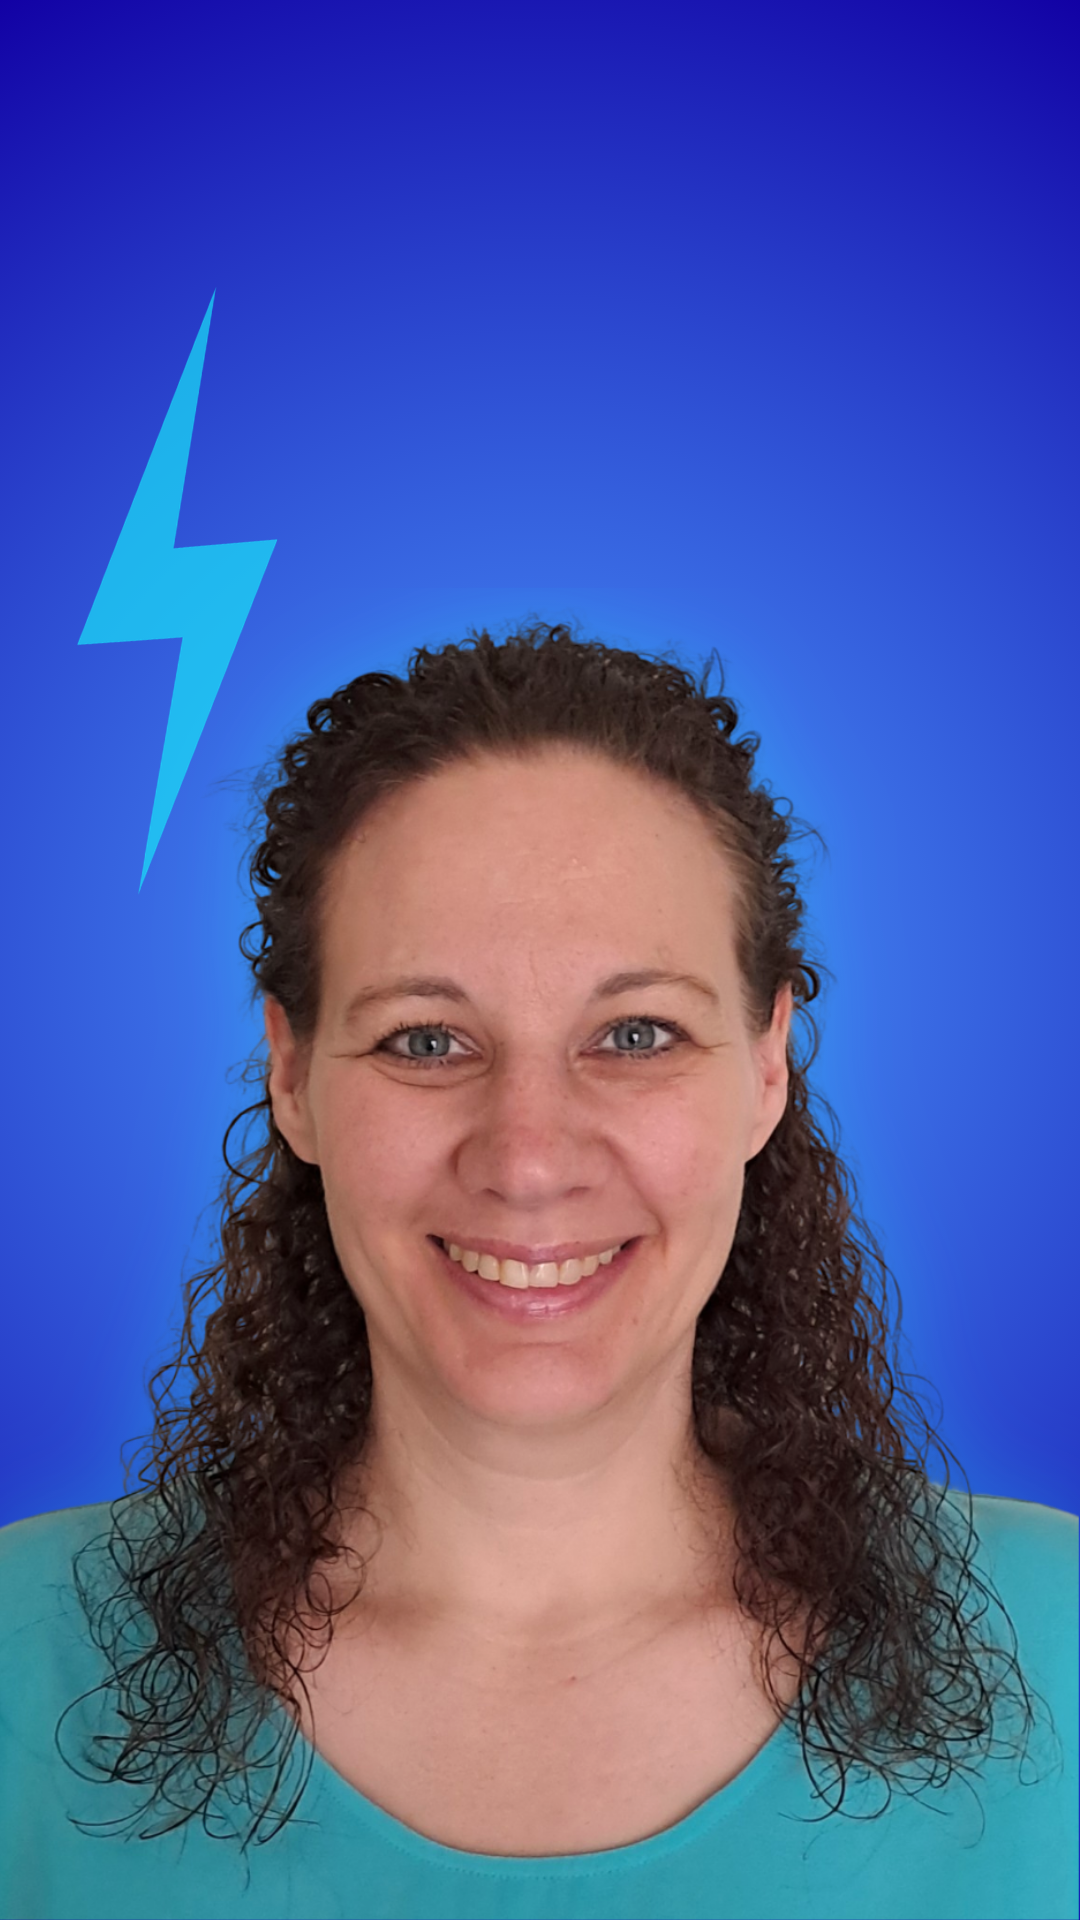
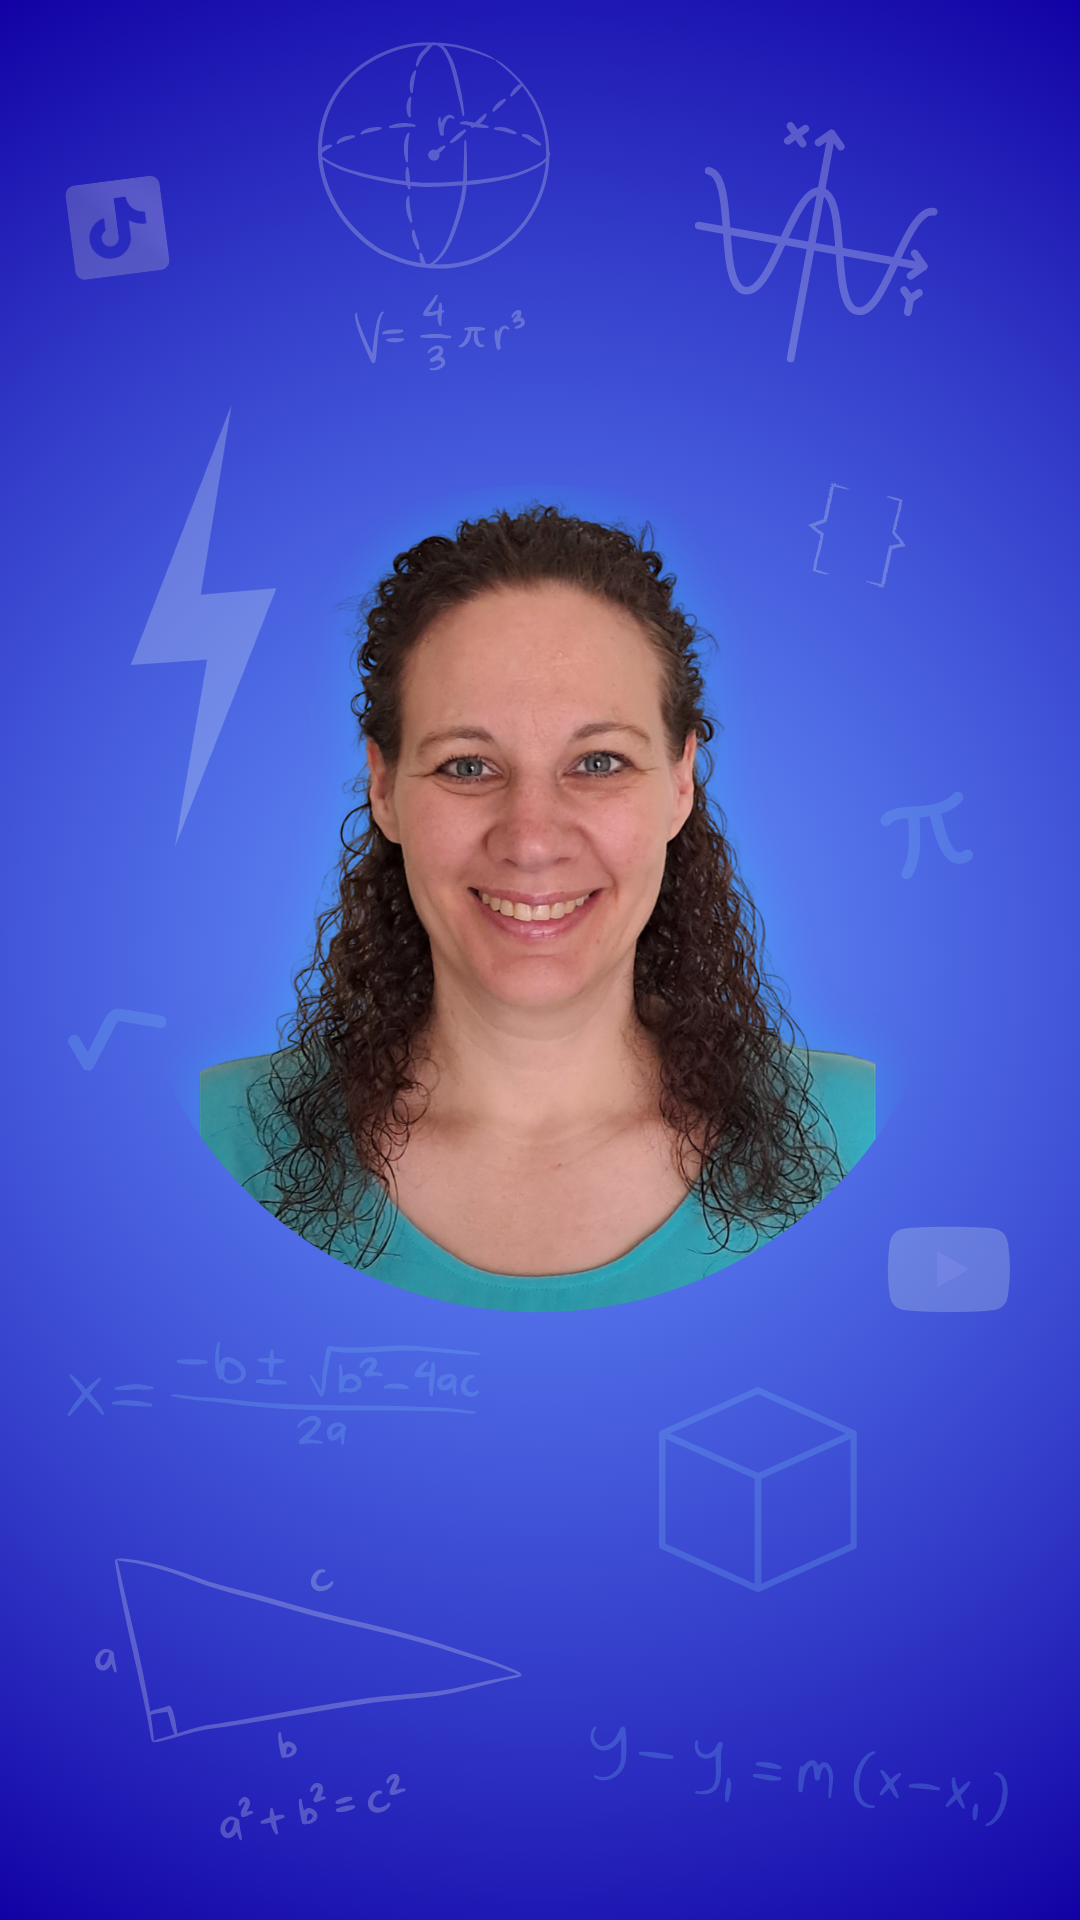
Refine homepage design and visual hierarchy

diff --git a/components/Worlds.tsx b/components/Worlds.tsx
@@ -28,17 +28,17 @@ export default function Worlds() {
 }, [currentImage]);
 
   return (
-    <section className="mx-auto mt-4 mb-16 max-w-7xl px-8">
+    <section className="mx-auto mt-7 mb-16 max-w-7xl px-8">
       <div className="grid grid-cols-3 gap-12">
 
         {/* ===== BEAT THE LIGHTNING ===== */}
 
         <article
           className="
-            w-[390px]
+            w-[350px]
             rounded-[36px]
             bg-[radial-gradient(circle_at_center,#19E0F8_15%,#1376FD_100%)]
-            p-7
+            p-6
             shadow-[0_18px_40px_rgba(0,0,0,0.18)]
             transition-all
             duration-300
@@ -48,7 +48,7 @@ export default function Worlds() {
 
           {/* Titel */}
 
-          <h2 className="text-center text-[2.5rem] font-semibold leading-tight text-white">
+          <h2 className="text-center text-[1.7rem] leading-tight text-slate-50">
             BEAT THE
             <br />
             LIGHTNING
@@ -56,7 +56,7 @@ export default function Worlds() {
 
           {/* Video */}
 
-          <div className="mt-6 px-4">
+          <div className="mt-4 px-6">
             <div className="overflow-hidden rounded-[28px] shadow-xl">
               <video
                 autoPlay
@@ -73,23 +73,9 @@ export default function Worlds() {
             </div>
           </div>
 
-          {/* Tekst */}
-
-          <p className="mt-6 text-center text-lg font-semibold text-white">
-            Can you beat the lightning?⚡
-          </p>
-
-          <p className="mt-2 text-center text-[16px] leading-7 text-white/90">
-            Solve each challenge
-            <br />
-            before the lightning strikes
-            <br />
-            and sharpen your math skills.
-          </p>
-
           {/* GO */}
 
-          <div className="mt-6 flex flex-col items-center">
+          <div className="mt-2 flex flex-col items-center">
 
             <button
               className="
@@ -103,8 +89,8 @@ export default function Worlds() {
                 src="/branding/compass-enter.svg"
                 alt="Enter BEAT THE LIGHTNING"
                 className="
-                  h-20
-                  w-20
+                  h-14
+                  w-14
                   transition-all
                   duration-300
                   group-hover:drop-shadow-[0_0_22px_rgba(24,224,248,0.9)]
@@ -112,11 +98,24 @@ export default function Worlds() {
               />
             </button>
 
-            <span className="mt-2 text-lg font-bold tracking-wide text-[#1201A4]">
+            <span className="mt-1 text-base font-bold tracking-wide text-[#1201A4]">
               GO
             </span>
 
           </div>
+
+          {/* Tekst */}
+
+          <p className="mt-3 text-center text-lg font-semibold text-white">
+            Can you beat the lightning?⚡
+          </p>
+
+          <p className="mt-2 text-center text-[16px] leading-6 text-white/90">
+            Solve each challenge
+            <br />
+            before the lightning strikes.
+            <br />
+          </p>
 
         </article>
 
@@ -124,10 +123,10 @@ export default function Worlds() {
 
         <article
           className="
-            w-[390px]
+            w-[350px]
             rounded-[36px]
             bg-[radial-gradient(circle_at_center,#1376FD_18%,#65E7F6_100%)]
-            p-7
+            p-6
             shadow-[0_18px_40px_rgba(0,0,0,0.18)]
             transition-all
             duration-300
@@ -137,7 +136,7 @@ export default function Worlds() {
 
           {/* Titel */}
 
-          <h2 className="text-center text-[2.5rem] font-semibold leading-tight text-white">
+          <h2 className="text-center text-[1.7rem] leading-tight text-slate-50">
             Explore
             <br />
             Math
@@ -145,7 +144,7 @@ export default function Worlds() {
 
           {/* Carrousel */}
 
-<div className="mt-6 px-4">
+<div className="mt-4 px-6">
   <div className="overflow-hidden rounded-[28px] shadow-xl">
     <img
       src={exploreImages[currentImage]}
@@ -155,23 +154,9 @@ export default function Worlds() {
   </div>
 </div>
 
-          {/* Tekst */}
-
-          <p className="mt-6 text-center text-lg font-semibold text-white">
-            Ready to explore math?⚡
-          </p>
-
-          <p className="mt-2 text-center text-[16px] leading-7 text-white/90">
-            Discover math through
-            <br />
-            clear explanations, surprising insights
-            <br />
-            and moments that make you smile.
-          </p>
-
           {/* GO */}
 
-          <div className="mt-6 flex flex-col items-center">
+          <div className="mt-2 flex flex-col items-center">
 
             <button
               className="
@@ -185,8 +170,8 @@ export default function Worlds() {
                 src="/branding/compass-enter.svg"
                 alt="Enter Explore Math"
                 className="
-                  h-20
-                  w-20
+                  h-14
+                  w-14
                   transition-all
                   duration-300
                   group-hover:drop-shadow-[0_0_22px_rgba(24,224,248,0.9)]
@@ -194,11 +179,23 @@ export default function Worlds() {
               />
             </button>
 
-            <span className="mt-2 text-lg font-bold tracking-wide text-[#1201A4]">
+            <span className="mt-1 text-base font-bold tracking-wide text-[#1201A4]">
               GO
             </span>
 
           </div>
+
+           {/* Tekst */}
+
+          <p className="mt-3 text-center text-lg font-semibold text-white">
+            Ready to explore math?⚡
+          </p>
+
+          <p className="mt-2 text-center text-[16px] leading-6 text-white/90">
+            Discover clear explanations
+            <br />
+            and moments that make you smile.
+          </p>
 
         </article>
 
@@ -206,10 +203,10 @@ export default function Worlds() {
 
 <article
   className="
-    w-[390px]
+    w-[350px]
     rounded-[36px]
    bg-[linear-gradient(to_bottom,#3B4ED3_0%,#4EABF3_100%)]
-    p-7
+    p-6
     shadow-[0_18px_40px_rgba(0,0,0,0.18)]
     transition-all
     duration-300
@@ -219,7 +216,7 @@ export default function Worlds() {
 
   {/* Titel */}
 
-  <h2 className="text-center text-[2.5rem] font-semibold leading-tight text-white">
+  <h2 className="text-center text-[1.7rem] leading-tight text-slate-50">
     More
     <br />
     MarisMathics
@@ -227,7 +224,7 @@ export default function Worlds() {
 
   {/* Afbeelding */}
 
-  <div className="mt-6 px-4">
+  <div className="mt-4 px-6">
     <div className="overflow-hidden rounded-[28px] shadow-xl">
       <img
         src="/worlds/more/Mariska.png"
@@ -237,23 +234,9 @@ export default function Worlds() {
     </div>
   </div>
 
-  {/* Tekst */}
+    {/* GO */}
 
-  <p className="mt-6 text-center text-lg font-semibold text-white">
-    Want more MarisMathics? ⚡
-  </p>
-
-  <p className="mt-2 text-center text-[16px] leading-7 text-white/90">
-    Meet Mariska
-    <br />
-    and explore the world
-    <br />
-    behind MarisMathics.
-  </p>
-
-  {/* GO */}
-
-  <div className="mt-6 flex flex-col items-center">
+  <div className="mt-2 flex flex-col items-center">
 
     <button
       className="
@@ -267,8 +250,8 @@ export default function Worlds() {
         src="/branding/compass-enter.svg"
         alt="Enter More MarisMathics"
         className="
-          h-20
-          w-20
+          h-14
+          w-14
           transition-all
           duration-300
           group-hover:drop-shadow-[0_0_22px_rgba(24,224,248,0.9)]
@@ -276,11 +259,23 @@ export default function Worlds() {
       />
     </button>
 
-    <span className="mt-2 text-lg font-bold tracking-wide text-[#1201A4]">
+    <span className="mt-1 text-base font-bold tracking-wide text-[#1201A4]">
       GO
     </span>
 
   </div>
+
+{/* Tekst */}
+
+  <p className="mt-3 text-center text-lg font-semibold text-white">
+    Want more MarisMathics? ⚡
+  </p>
+
+  <p className="mt-2 text-center text-[16px] leading-6 text-white/90">
+    Meet Mariska and explore
+    <br />
+     the world behind MarisMathics.
+  </p>
 
 </article>
       </div>

diff --git a/components/Navigation.tsx b/components/Navigation.tsx
@@ -4,10 +4,28 @@ export default function Navigation() {
 
       <div className="w-10" />
 
-      <div className="flex gap-14 text-base font-semibold">
+      <div className="flex gap-10 text-base font-semibold">
 
-        <a href="#" className="transition hover:text-cyan-300">
+        {/* Actieve pagina */}
+
+        <a
+          href="#"
+          className="relative transition hover:text-cyan-300"
+        >
           Home
+
+          <span
+            className="
+              absolute
+              left-1/2
+              -bottom-1
+              h-[2px]
+              w-[60%]
+              -translate-x-1/2
+              rounded-full
+              bg-[#19E0F8]
+            "
+          />
         </a>
 
         <a
@@ -17,11 +35,17 @@ export default function Navigation() {
           BEAT THE LIGHTNING
         </a>
 
-        <a href="#" className="transition hover:text-cyan-300">
+        <a
+          href="#"
+          className="transition hover:text-cyan-300"
+        >
           Explore Math
         </a>
 
-        <a href="#" className="transition hover:text-cyan-300">
+        <a
+          href="#"
+          className="transition hover:text-cyan-300"
+        >
           More MarisMathics
         </a>
 

diff --git a/components/Hero.tsx b/components/Hero.tsx
@@ -4,21 +4,21 @@ export default function Hero() {
 
       <div className="flex flex-col items-center">
 
-        <div className="relative mt-0">
+        <div className="relative -mt-5">
 
           <div className="absolute inset-0 scale-125 rounded-full bg-cyan-400/20 blur-[90px]" />
 
           <img
             src="/branding/logo_transparant.png"
             alt="MarisMathics"
-            className="relative w-[550px] max-w-full"
+            className="relative w-[400px] max-w-full"
           />
 
         </div>
 
-        <p className="-mt-1 text-2xl font-medium tracking-wide text-cyan-300">
-          Making Math Fun
-        </p>
+        <p className="-mt-2 text-[1.3rem] italic tracking-[0.03em] text-cyan-300">
+  Making Math Fun
+</p>
 
       </div>
 